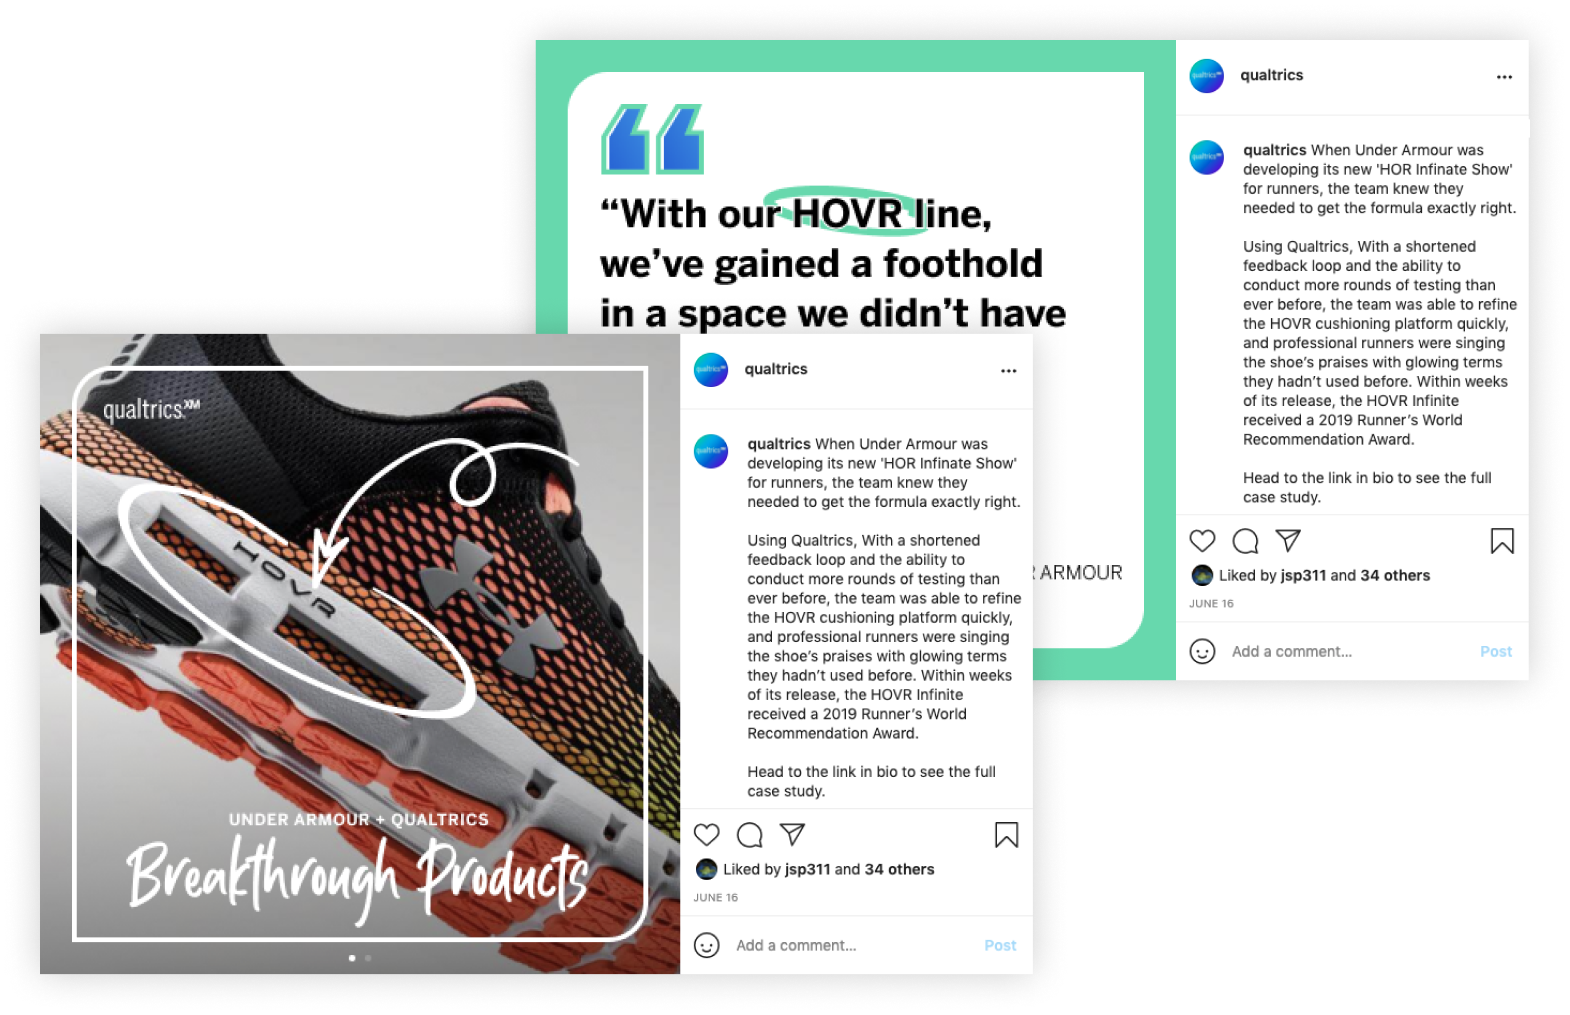
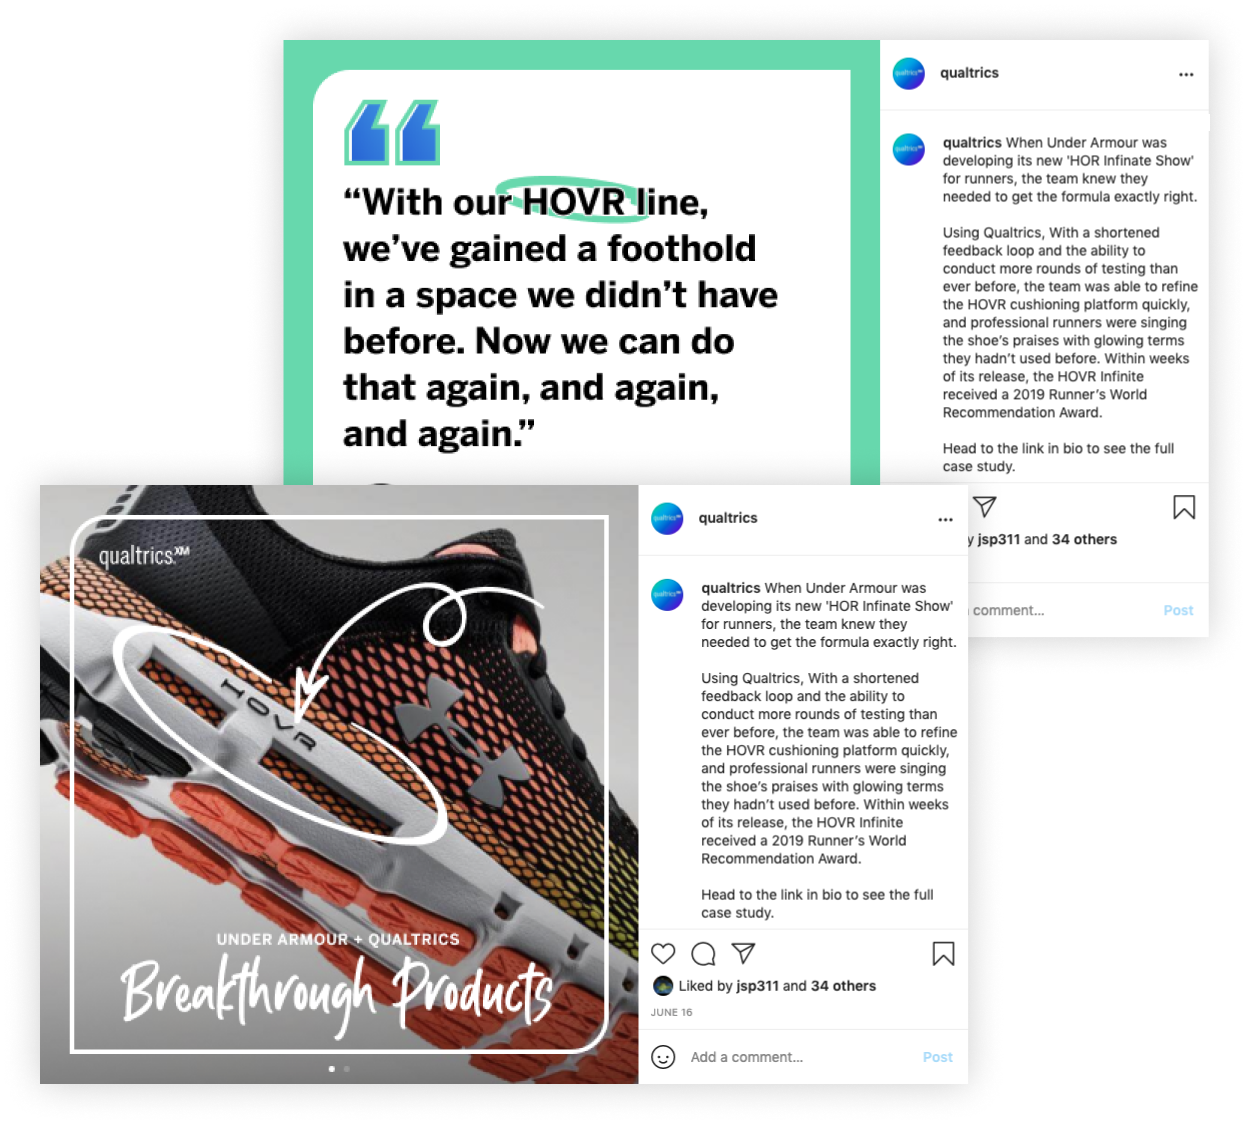
Updated Qualtrics CSS & HTML & Images
Added Qualtrics Case Study - refined images, css, and added 'results' section

diff --git a/css/styles.css b/css/styles.css
@@ -10878,7 +10878,6 @@ button#submitButton {
   }
 }
 
-
 #our-work-hero {
   background-color: #90A3A7;
   padding-top: 166px;
@@ -10908,6 +10907,10 @@ button#submitButton {
   width: 720px;
 }
 
+#our-work-hero .client-logo img {
+  width: 150px; 
+}
+
 @media (max-width: 991px) {
   #our-work-hero .masthead-heading{
     font-size: 44px;
@@ -10915,7 +10918,7 @@ button#submitButton {
     width: auto;
   }
   #our-work-hero .client-logo img{
-    width: 90px;
+    width: 125px;
   }
   #our-work-hero p{
     width: auto;
@@ -10932,28 +10935,28 @@ button#submitButton {
   color: #fff;
 }
 
-#project-goals h2, #project-goals p{
+#project-goals h2, #project-goals p {
   color: #fff;
 }
 
-#project-goals h2{
+#project-goals h2 {
   font-size: 44px;
   padding-left: 50px;
   padding-top: 50px;
   line-height: 54px;
 }
 
-#project-goals .title-underline{
+#project-goals .title-underline {
   margin-left: 50px;
   border-color: #fff;
 }
 
-.project-description{
+.project-description {
   padding-top: 50px;
   padding-right: 80px;
 }
 
-.project-description hr{
+.project-description hr {
   border-top: 1px solid #fff;
   padding: 10px 50%;
   margin-left: 0px;
@@ -11028,7 +11031,7 @@ button#submitButton {
   margin-top: 50px;
 }
 
-#approach-and-deliverables .pullquote.half{
+#approach-and-deliverables .pullquote.half {
   background-image: url('../assets/img/ourwork/pullquote_bg.png');
   background-repeat: no-repeat;
   margin-top: 30px;
@@ -11036,7 +11039,7 @@ button#submitButton {
   height: 200px;
 }
 
-#approach-and-deliverables .pullquote p{
+#approach-and-deliverables .pullquote p {
   font-style: italic;
   font-size: 16px;
   padding-top: 10px;
@@ -11108,6 +11111,12 @@ button#submitButton {
 
 }
 
+@media (max-width: 1199px) {
+  .pullquote.full span:before , .pullquote.full span:after {
+    width: 425px;
+  }
+}
+
 @media (max-width: 991px) {
   #approach-and-deliverables h2{
     font-size: 34px;
@@ -11120,6 +11129,16 @@ button#submitButton {
   #approach-and-deliverables .pullquote p{
     font-size: 14px;
   }
+
+  .pullquote.full span:before , .pullquote.full span:after {
+    width: 300px;
+  }
+}
+
+@media (max-width: 761px) {
+  .pullquote.full span:before , .pullquote.full span:after {
+    width: 180px;
+  }
 }
 
 @media (max-width: 991px) {
@@ -11127,6 +11146,94 @@ button#submitButton {
     font-size: 34px;
     line-height: 44px; 
   }
+}
+
+#project-results a{
+  font-weight: bold;
+}
+
+.results-stat {
+  border-top: 2px solid #AF6B58;
+  border-bottom: 2px solid #AF6B58;
+  padding-top: 30px;
+  padding-bottom: 20px;
+  margin-top: 50px;
+}
+
+.results-stat h3{
+  color: #AB7A48;
+}
+
+.stat-value {
+  position: absolute;
+  margin-top: 20px;
+}
+
+.stat-value h3 {
+font-size: 64px;
+line-height: 72px;
+}
+
+.stat-description{
+  position: relative;
+  margin-left: 125px;
+}
+
+.stat-body{
+  margin-left: 125px;
+  padding-top: 10px;
+
+}
+
+.stat-description h3{
+  font-size: 44px;
+  line-height: 54px;
+}
+
+@media (max-width: 1199px) {
+  #project-results h2{
+    font-size: 44px;
+    line-height: 54px;
+  }
+  
+  .stat-description h3 {
+    font-size: 40px;
+    line-height: 50px;
+  }
+  
+}
+
+@media (max-width: 991px) {
+  .stat-value {
+    margin-top: 0px;
+  }
+  
+  .stat-description h3 {
+    font-size: 44px;
+    line-height: 54px;
+    margin-top: 10px;
+  }  
+}
+
+@media (max-width: 767px) {
+  .stat-value {
+    margin-top: 30px;
+  }
+  
+  .stat-description h3 {
+    font-size: 44px;
+    line-height: 54px;
+  }  
+}
+
+@media (max-width: 500px) {
+  .stat-value {
+    margin-top: 20px;
+  }
+  .stat-description h3 {
+    font-size: 35px;
+    line-height: 45px;
+  }  
 }
 
 #see-more-work {

diff --git a/our-work/qualtrics.html b/our-work/qualtrics.html
@@ -178,8 +178,11 @@
                 </div>
             </div>
             <div class="row">
-                <div class="col-lg-12">
-                    <img src="img/qualtrics/Qualtrics_RepresentativePosts7.2.png" width="100%"></img>
+                <div class="col-lg-6">
+                    <img src="img/qualtrics/Qualtrics_RepresentativePosts7.png" width="100%"></img>
+                </div>
+                <div class="col-lg-6">
+                    <img src="img/qualtrics/Qualtrics_RepresentativePosts8.png" width="100%"></img>
                 </div>
             </div>
             <div class="row">
@@ -187,6 +190,39 @@
                     <img src="img/qualtrics/Qualtrics_RepresentativePosts5.png" width="100%"></img>
                 </div>
             </div>
+       </section>
+
+       <!-- Results -->
+       <section class="page-section" id="project-results">
+           <div class="container">
+               <div class="row">
+                   <div class="col-lg-6">
+                       <h2>Project Outcome</h2>
+                       <p class="section-copy">
+                           The Social Media Playbook reinvigorated the Qualtrics Social Media Team to inspire new post topics and refresh the design across Instagram, Linkedin, Facebook, and Twitter. These new posts that launched in the Summer of 2021 received more than double the overall social impressions from January of that same year.<br><br>
+                           See It For Yourself:<br>
+                           <a href="http://www.instagram.com/qualtrics" target="_blank">Qualtrics Instagram</a> | <a href="https://www.linkedin.com/company/qualtrics/posts/?feedView=all" target="_blank">Qualtrics Linkedin</a> | <a href="https://twitter.com/qualtrics" target="_blank">Qualtrics Twitter</a>
+                       </p>
+                   </div>
+                   <div class ="col-lg-5 offset-lg-1">
+                       <div class="results-stat">
+                           <div class="stat-value">
+                               <h3>2X</h3>
+                           </div>
+                           <div class="stat-description">
+                               <h3>Social Media Impressions</h3>
+                           </div>
+                           <div class="stat-body">
+                               <p>Since January 2021 Source: Qualtrics Teams</p>
+                           </div>
+
+                       </div>
+                        
+
+                   </div>
+               </div>
+           </div>
+
        </section>
     
 
